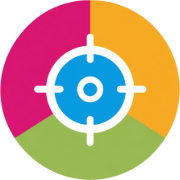
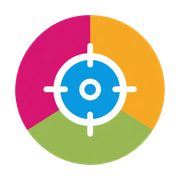
fix: 파비콘 투명 배경 정리 + 전체 페이지 아이콘 태그 추가

diff --git a/payment.html b/payment.html
@@ -2,6 +2,10 @@
 <html lang="ko">
 <head>
 <meta charset="UTF-8">
+<link rel="icon" href="/favicon.ico" sizes="any">
+<link rel="icon" type="image/png" sizes="48x48" href="/favicon-48x48.png">
+<link rel="apple-touch-icon" href="/apple-touch-icon.png">
+<link rel="manifest" href="/manifest.json">
 <meta name="viewport" content="width=device-width,initial-scale=1.0">
 <title>정밀 진단 시작 | SKOPOS 스코포스</title>
 <script src="https://cdn.jsdelivr.net/npm/@supabase/supabase-js@2/dist/umd/supabase.js"></script>
@@ -220,7 +224,7 @@ async function applyCoupon(){
   if(!code){resetCoupon();showCouponMessage('쿠폰 코드를 입력해주세요.','error');return;}
   btn.disabled=true;btn.textContent='확인';
   try{
-    const res=await fetch('https://rgbukqphcqptnfeqipfn.supabase.co/functions/v1/validate-coupon',{method:'POST',headers:await authHeaders(),body:JSON.stringify({coupon_code:code,amount:BASE_AMOUNT,user_id:currentUser?.id||''})});
+    const res=await fetch('/.netlify/functions/validate-coupon',{method:'POST',headers:await authHeaders(),body:JSON.stringify({coupon_code:code,amount:BASE_AMOUNT,user_id:currentUser?.id||''})});
     const result=await res.json();
     if(!res.ok||!result.success){
       resetCoupon();
@@ -340,7 +344,7 @@ async function redeemFreeCoupon(){
   const name=currentUser.user_metadata?.full_name||currentUser.email?.split('@')[0]||'';
   const email=currentUser.email||'';
   try{
-    const res=await fetch('https://rgbukqphcqptnfeqipfn.supabase.co/functions/v1/redeem-free-coupon',{method:'POST',headers:await authHeaders(),body:JSON.stringify({coupon_code:priceState.coupon_code,name,email})});
+    const res=await fetch('/.netlify/functions/redeem-free-coupon',{method:'POST',headers:await authHeaders(),body:JSON.stringify({coupon_code:priceState.coupon_code,name,email})});
     const result=await res.json();
     if(result.success){
       sessionStorage.setItem('skopos_paid','1');
@@ -366,7 +370,7 @@ async function verifyAndStart(impUid,merchantUid,name,email){
   try{
     const couponCode=priceState.coupon_code||sessionStorage.getItem('skopos_coupon_code')||'';
     const expectedAmount=Number(sessionStorage.getItem('skopos_expected_amount')||priceState.final_amount||BASE_AMOUNT);
-    const res=await fetch('https://rgbukqphcqptnfeqipfn.supabase.co/functions/v1/verify-payment',{method:'POST',headers:await authHeaders(),body:JSON.stringify({imp_uid:impUid,merchant_uid:merchantUid,amount:expectedAmount,coupon_code:couponCode,name,email,user_id:currentUser?.id||''})});
+    const res=await fetch('/.netlify/functions/verify-payment',{method:'POST',headers:await authHeaders(),body:JSON.stringify({imp_uid:impUid,merchant_uid:merchantUid,amount:expectedAmount,coupon_code:couponCode,name,email,user_id:currentUser?.id||''})});
     const result=await res.json();
     if(result.success){sessionStorage.setItem('skopos_paid','1');window.location.href='skopos_premium_quiz.html?paid=1';}
     else{showAlert('payAlert','결제 검증 실패: '+(result.message||'관리자에게 문의해 주세요'));document.getElementById('payBtn').disabled=false;updatePriceView();setStep(2);}

diff --git a/naver-callback.html b/naver-callback.html
@@ -2,6 +2,10 @@
 <html lang="ko">
 <head>
 <meta charset="UTF-8">
+<link rel="icon" href="/favicon.ico" sizes="any">
+<link rel="icon" type="image/png" sizes="48x48" href="/favicon-48x48.png">
+<link rel="apple-touch-icon" href="/apple-touch-icon.png">
+<link rel="manifest" href="/manifest.json">
 <title>네이버 로그인 처리 중...</title>
 <script src="https://cdn.jsdelivr.net/npm/@supabase/supabase-js@2"></script>
 <style>
@@ -38,7 +42,7 @@ const sb = window.supabase.createClient(SUPABASE_URL, SUPABASE_ANON);
   }
 
   try {
-    const res = await fetch('https://rgbukqphcqptnfeqipfn.supabase.co/functions/v1/naver-auth', {
+    const res = await fetch('/.netlify/functions/naver-auth', {
       method: 'POST',
       headers: { 'Content-Type': 'application/json' },
       body: JSON.stringify({

diff --git a/skopos_premium_quiz.html b/skopos_premium_quiz.html
@@ -22,8 +22,8 @@
 <meta name="twitter:description" content="8개 영역 레이더 차트·12가지 정밀 유형·공간별 소품 처방까지. ₩29,900 1회 결제, 영구 열람.">
 <meta name="twitter:image" content="https://skopos.kr/og-image.jpg">
 <link rel="icon" type="image/png" sizes="48x48" href="/favicon-48x48.png">
-<link rel="apple-touch-icon" href="/favicon-48x48.png">
-<link rel="shortcut icon" href="/favicon-48x48.png">
+<link rel="apple-touch-icon" href="/apple-touch-icon.png">
+<link rel="icon" href="/favicon.ico" sizes="any">
 <meta name="theme-color" content="#E91E8C">
 <script type="application/ld+json">
 {

diff --git a/login.html b/login.html
@@ -2,6 +2,10 @@
 <html lang="ko">
 <head>
 <meta charset="UTF-8">
+<link rel="icon" href="/favicon.ico" sizes="any">
+<link rel="icon" type="image/png" sizes="48x48" href="/favicon-48x48.png">
+<link rel="apple-touch-icon" href="/apple-touch-icon.png">
+<link rel="manifest" href="/manifest.json">
 <meta name="viewport" content="width=device-width,initial-scale=1.0">
 <title>로그인 / 회원가입 | SKOPOS 스코포스</title>
 <script src="https://cdn.jsdelivr.net/npm/@supabase/supabase-js@2/dist/umd/supabase.js"></script>

diff --git a/mypage.html b/mypage.html
@@ -2,6 +2,10 @@
 <html lang="ko">
 <head>
 <meta charset="UTF-8">
+<link rel="icon" href="/favicon.ico" sizes="any">
+<link rel="icon" type="image/png" sizes="48x48" href="/favicon-48x48.png">
+<link rel="apple-touch-icon" href="/apple-touch-icon.png">
+<link rel="manifest" href="/manifest.json">
 <meta name="viewport" content="width=device-width,initial-scale=1.0">
 <title>마이페이지 | SKOPOS 스코포스</title>
 <script src="https://cdn.jsdelivr.net/npm/@supabase/supabase-js@2/dist/umd/supabase.js"></script>

diff --git a/index.html b/index.html
@@ -2,6 +2,10 @@
 <html lang="ko">
 <head>
 <meta charset="UTF-8">
+<link rel="icon" href="/favicon.ico" sizes="any">
+<link rel="icon" type="image/png" sizes="48x48" href="/favicon-48x48.png">
+<link rel="apple-touch-icon" href="/apple-touch-icon.png">
+<link rel="manifest" href="/manifest.json">
 <meta name="viewport" content="width=device-width, initial-scale=1.0">
 
 <!-- ══════════════════════════════════════════

diff --git a/skopos_quiz.html b/skopos_quiz.html
@@ -25,8 +25,8 @@
 <!-- favicon -->
 <link rel="icon" type="image/png" sizes="48x48" href="/favicon-48x48.png">
 <link rel="icon" type="image/png" href="/favicon-48x48.png">
-<link rel="apple-touch-icon" href="/favicon-48x48.png">
-<link rel="shortcut icon" href="/favicon-48x48.png">
+<link rel="apple-touch-icon" href="/apple-touch-icon.png">
+<link rel="icon" href="/favicon.ico" sizes="any">
 <!-- 모바일 브라우저 테마색 -->
 <meta name="theme-color" content="#E91E8C">
 

diff --git a/skopos_sample_result.html b/skopos_sample_result.html
@@ -2,6 +2,10 @@
 <html lang="ko">
 <head>
 <meta charset="UTF-8">
+<link rel="icon" href="/favicon.ico" sizes="any">
+<link rel="icon" type="image/png" sizes="48x48" href="/favicon-48x48.png">
+<link rel="apple-touch-icon" href="/apple-touch-icon.png">
+<link rel="manifest" href="/manifest.json">
 <meta name="viewport" content="width=device-width, initial-scale=1.0">
 
 <!-- SEO -->
